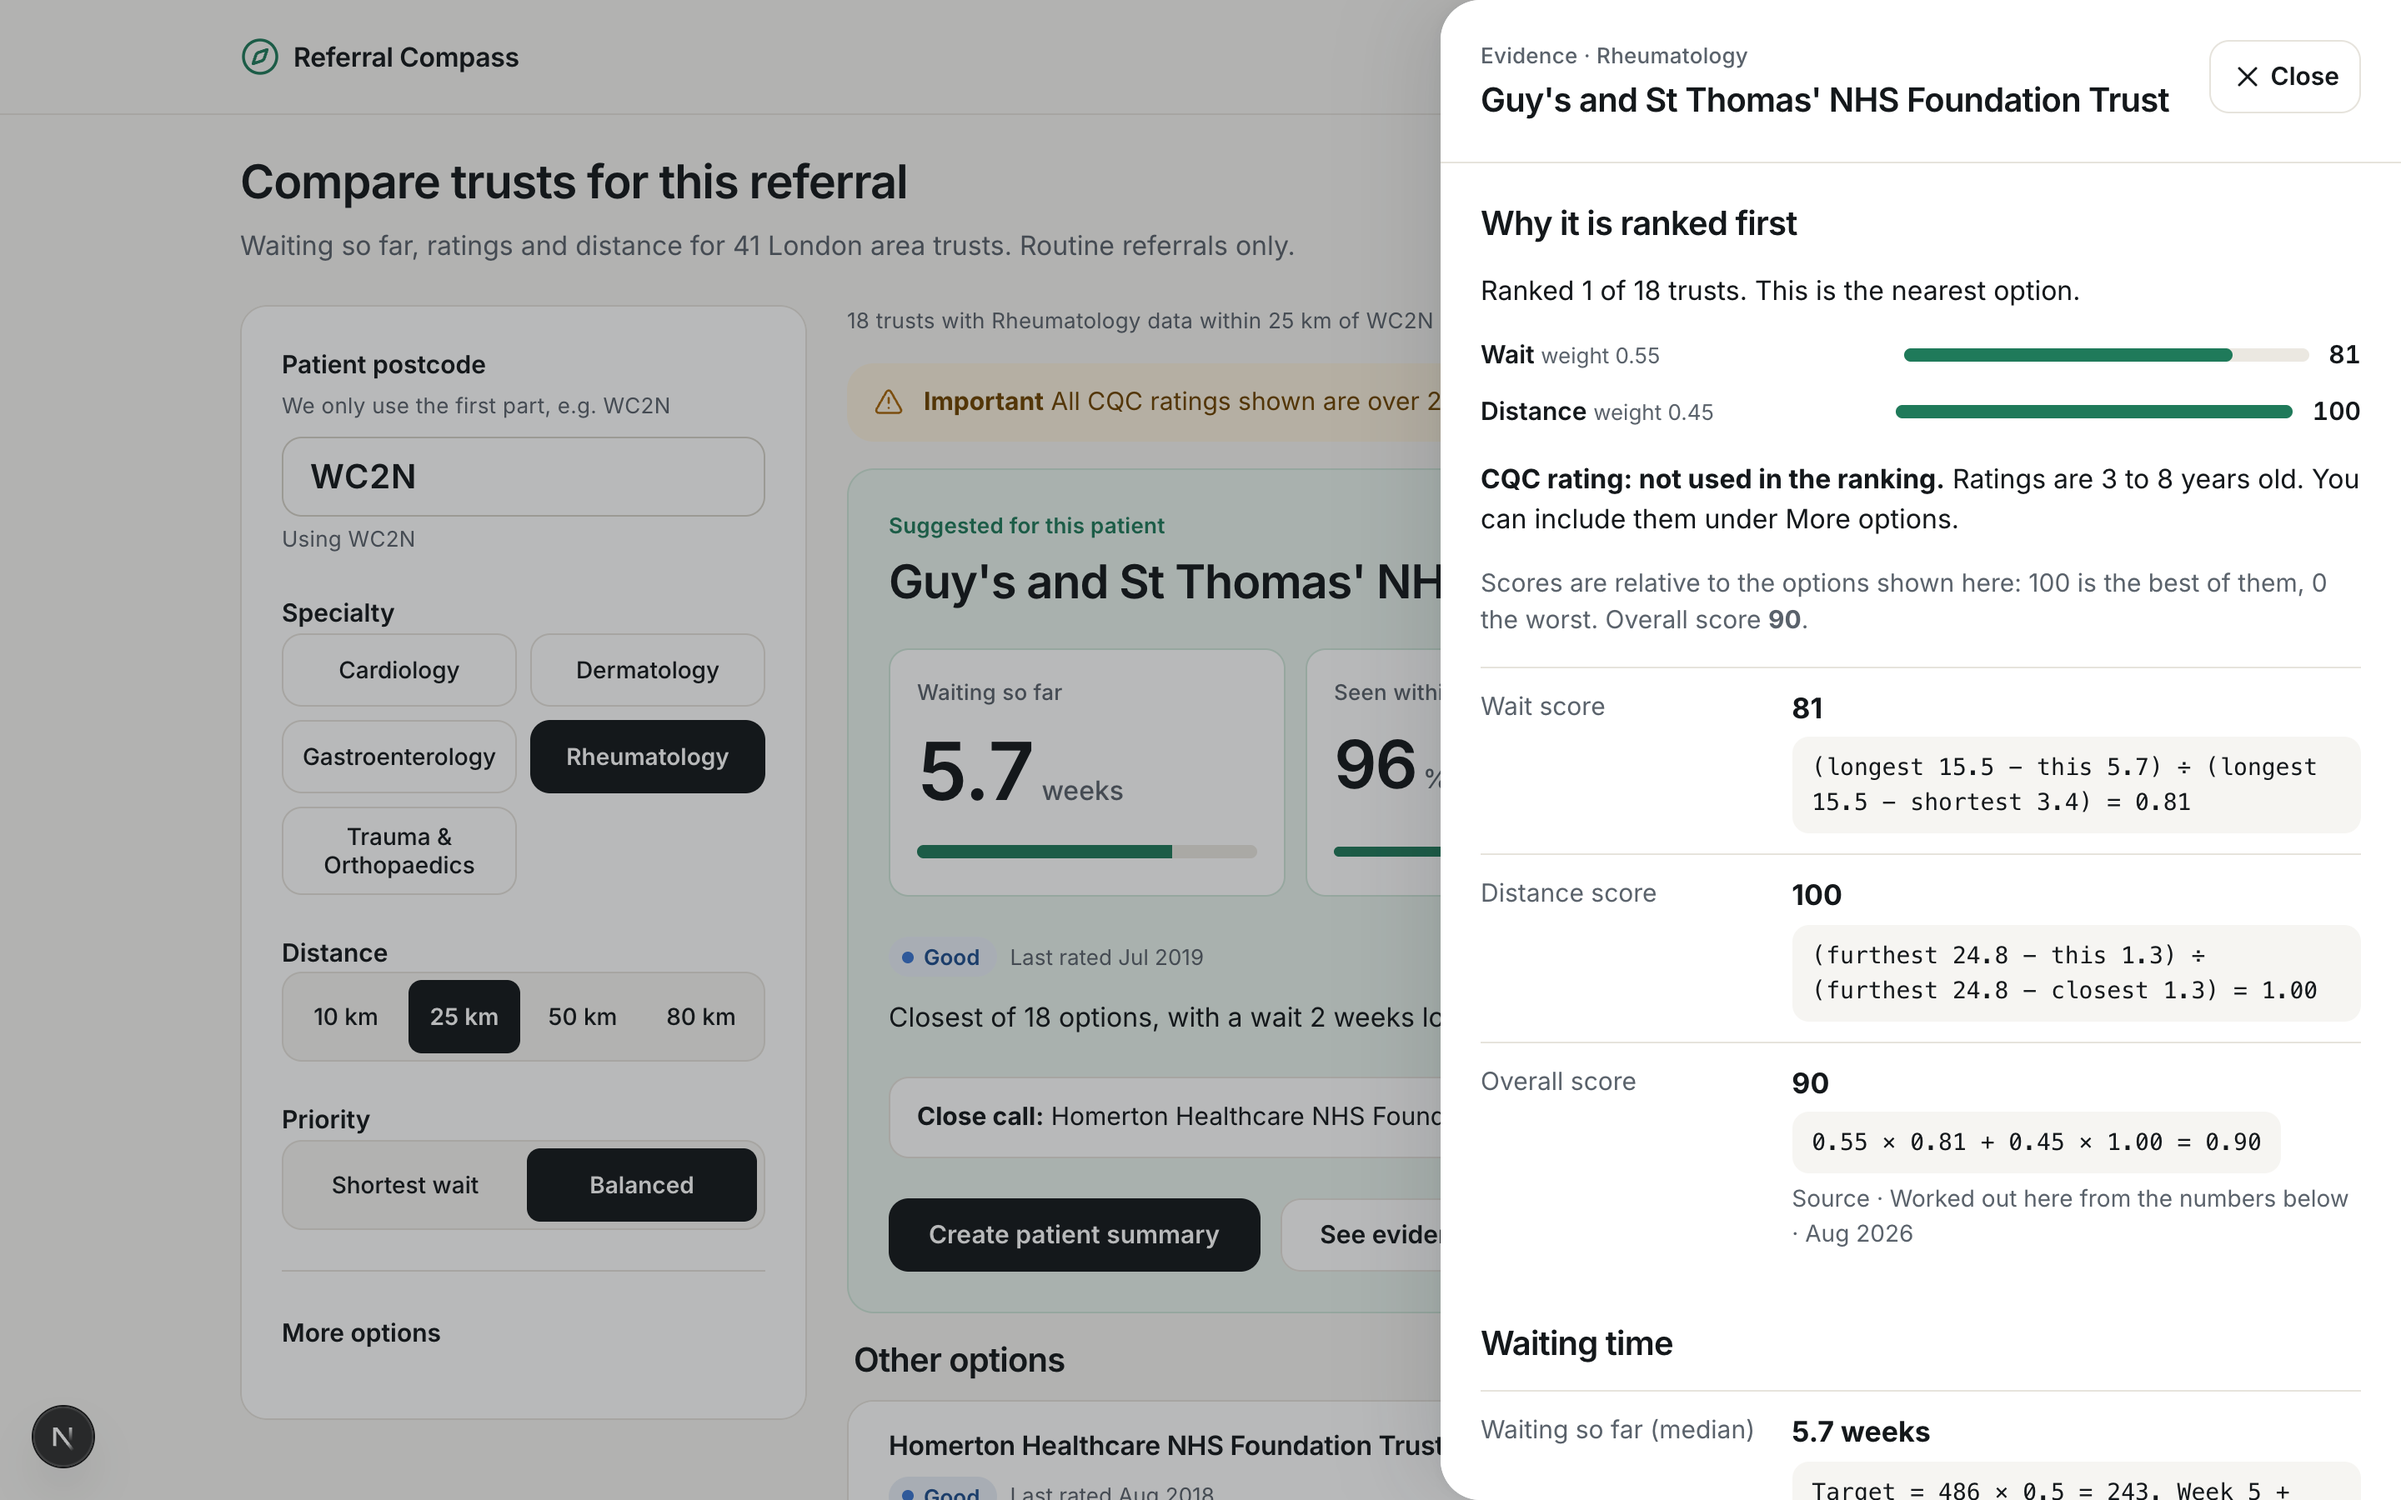
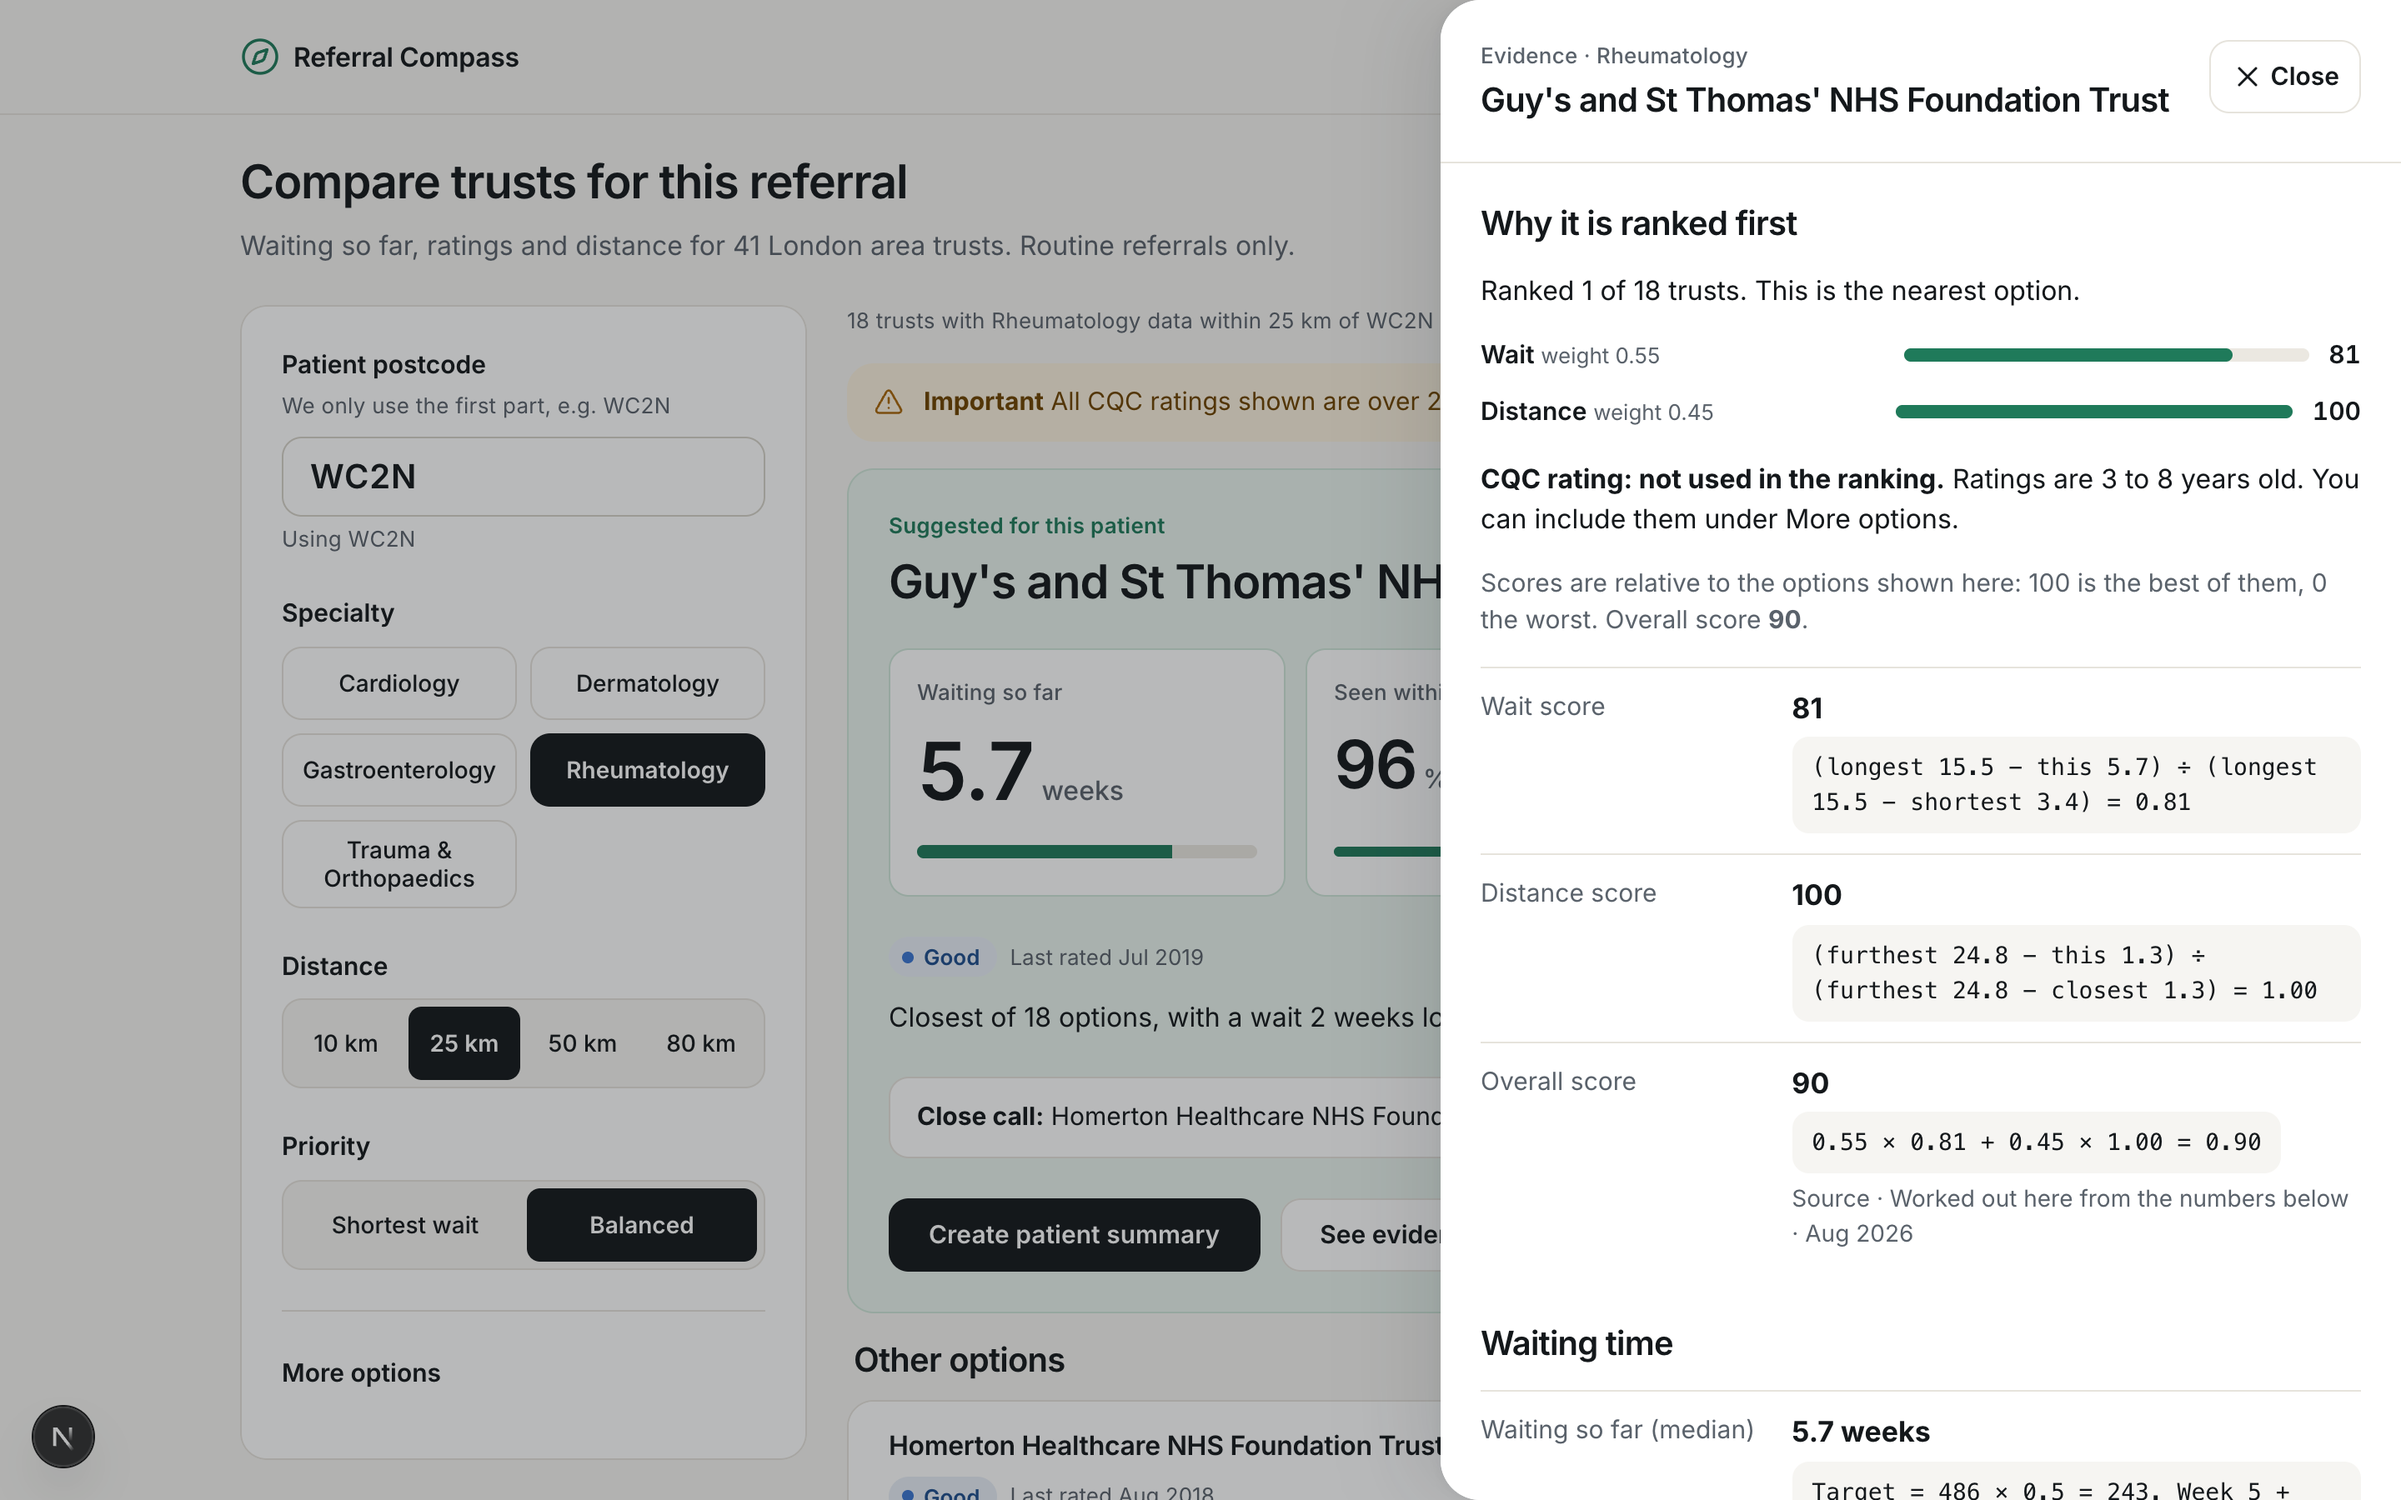
Empty state fills column, content top-aligned; 8px under selector titles
- Empty/state panel stretches to the input card's height with content pinned
  to the top (was vertically centred); example button fills the width
- Legends ignore fieldset grid gap, so the 8px now sits on the legend itself

diff --git a/app/page.module.css b/app/page.module.css
@@ -65,8 +65,9 @@
 .edit:active { transform: scale(0.98); }
 
 .results { display: grid; grid-template-columns: minmax(0, 1fr); align-content: start; gap: var(--space-16); outline: none; }
-/* No results yet: the state panel fills the column height. */
-.resultsFill { grid-template-rows: 1fr; align-content: stretch; }
+/* No results yet: the state panel fills the column to the input card's
+   height, with its content pinned to the top. */
+.resultsFill { grid-template-rows: 1fr; }
 .count { margin: 0; font-size: var(--small); letter-spacing: 0.01em; color: var(--text-2); }
 
 .fade { display: grid; grid-template-columns: minmax(0, 1fr); gap: var(--space-16); animation: fade-in 200ms ease-out; }
@@ -93,18 +94,19 @@
 .footnote { margin: 0; padding: 0 var(--space-4); font-size: 0.875rem; color: var(--text-2); }
 
 /* Calm panel for every non-results state. */
+/* Every non-results state: content top-aligned, any action filling the
+   width like the form controls. */
 .state {
   display: grid;
-  gap: var(--space-24);
-  align-content: center;
-  justify-items: start;
-  min-height: 20rem;
-  padding: var(--space-48) var(--pad-card);
+  gap: var(--space-16);
+  align-content: start;
+  padding: var(--pad-card);
   background: var(--card);
   border: 1px solid var(--line);
   border-radius: var(--radius);
 }
-.state p { margin: 0; font-size: 1.125rem; max-width: 32rem; text-wrap: balance; }
+.state p { margin: 0; font-size: 1.125rem; text-wrap: pretty; }
+.state :global(.btn) { width: 100%; }
 .stateError p { color: var(--error-text); font-weight: 600; }
 
 @media (max-width: 40em) {
@@ -118,7 +120,6 @@
   .banner { font-size: 0.875rem; }
   .bannerFull { display: none; }
   .bannerShort { display: inline; }
-  .state { min-height: 14rem; padding: var(--space-32) var(--pad-card); }
 }
 
 @media (prefers-reduced-motion: reduce) {

diff --git a/components/ConsoleInputs.module.css b/components/ConsoleInputs.module.css
@@ -10,6 +10,8 @@
 .field { display: grid; gap: var(--space-4); }
 .inputWrap { display: grid; padding-top: var(--space-4); }
 .label, .legend { font-weight: 600; font-size: 0.9375rem; padding: 0; letter-spacing: 0; }
+/* A legend ignores its fieldset's grid gap, so the 8px sits on the legend. */
+.legend { padding-bottom: var(--space-8); }
 .hint { margin: 0; font-size: var(--small); letter-spacing: 0.01em; color: var(--text-2); }
 .error { margin: 0; font-size: 0.875rem; font-weight: 600; color: var(--error-text); }
 .status { margin: 0; font-size: var(--small); letter-spacing: 0.01em; color: var(--text-2); min-height: 1.3em; }
